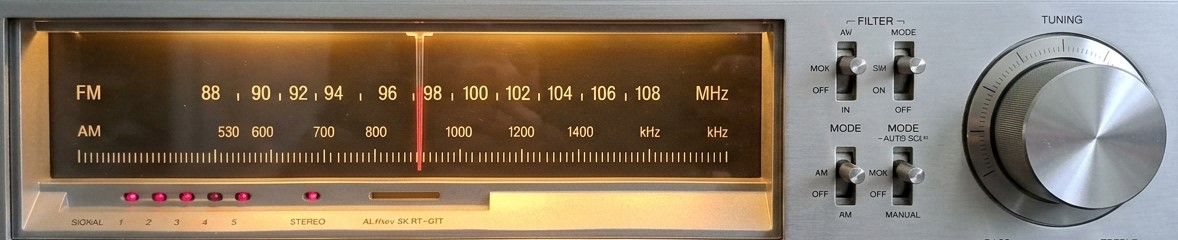
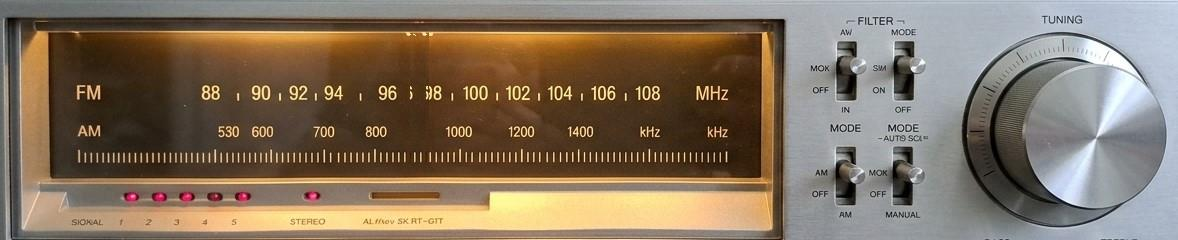
fix: strictly constrain radio tuning needle to glass FM scale and remove static needle artifact

Changed region(s): [[0.3362, 0.1167, 0.3667, 0.7]]

diff --git a/src/components/RadioTunerDial.tsx b/src/components/RadioTunerDial.tsx
@@ -15,29 +15,35 @@ export const RadioTunerDial: React.FC<RadioTunerDialProps> = ({
   hasResults,
   className = '',
 }) => {
-  // Needle position across dial (0% to 100%)
-  const [needlePos, setNeedlePos] = useState<number>(48);
-  const [isTuned, setIsTuned] = useState<boolean>(false);
-  const [currentFreq, setCurrentFreq] = useState<string>('98.5');
+  // Needle position in percentage of total tuner width (strictly constrained within glass scale: 18% to 57.5%)
+  const [needlePos, setNeedlePos] = useState<number>(37.5);
+  const [isTuned, setIsTuned] = useState<boolean>(true);
+  const [currentFreq, setCurrentFreq] = useState<string>('98.0');
   const [soundEnabled, setSoundEnabled] = useState<boolean>(true);
   const stopSoundRef = useRef<(() => void) | null>(null);
 
-  // Compute a deterministic frequency based on query string
+  // Exact geometric boundaries of the FM scale in SINTONIZADOR.jpg
+  const MIN_SCALE_X = 18.0; // Directly at "88 MHz"
+  const MAX_SCALE_X = 57.2; // Directly at "108 MHz"
+  const GLASS_MIN_X = 6.0;  // Left edge of dark glass
+  const GLASS_MAX_X = 64.0; // Right edge of dark glass (before silver switches panel)
+
+  // Compute station and needle position based on query string
   const calculateStation = (str: string) => {
     let hash = 0;
     for (let i = 0; i < str.length; i++) {
       hash = (hash << 5) - hash + str.charCodeAt(i);
       hash |= 0;
     }
-    const normalized = Math.abs(hash) % 1000;
-    // Map to FM range: 88.0 MHz to 108.0 MHz
-    const freqVal = (88.0 + (normalized / 1000) * 20).toFixed(1);
-    // Dial percentage between 10% and 90%
-    const pos = 10 + (normalized / 1000) * 80;
+    const ratio = (Math.abs(hash) % 1000) / 1000;
+    // Frequency between 88.0 and 108.0 MHz
+    const freqVal = (88.0 + ratio * 20.0).toFixed(1);
+    // Needle position strictly mapped onto the 88-108 MHz scale
+    const pos = MIN_SCALE_X + ratio * (MAX_SCALE_X - MIN_SCALE_X);
     return { freqVal, pos };
   };
 
-  // Trigger sweep and static sound during search
+  // Sweep and static sound during search
   useEffect(() => {
     if (isSearching) {
       setIsTuned(false);
@@ -46,17 +52,24 @@ export const RadioTunerDial: React.FC<RadioTunerDialProps> = ({
         stopSoundRef.current = playRadioTuningSound(1.2);
       }
 
-      // Sweep animation loop while searching
+      // Sweep animation loop strictly within the FM dial scale (18% to 57%)
       let direction = 1;
       let pos = needlePos;
       const interval = setInterval(() => {
-        pos += direction * 7;
-        if (pos > 86) direction = -1;
-        if (pos < 14) direction = 1;
+        pos += direction * 3.8;
+        if (pos > MAX_SCALE_X) {
+          pos = MAX_SCALE_X;
+          direction = -1;
+        }
+        if (pos < MIN_SCALE_X) {
+          pos = MIN_SCALE_X;
+          direction = 1;
+        }
         setNeedlePos(pos);
-        const dynamicFreq = (88.0 + (pos / 100) * 20).toFixed(1);
+        const ratio = (pos - MIN_SCALE_X) / (MAX_SCALE_X - MIN_SCALE_X);
+        const dynamicFreq = (88.0 + Math.max(0, Math.min(1, ratio)) * 20.0).toFixed(1);
         setCurrentFreq(dynamicFreq);
-      }, 70);
+      }, 65);
 
       return () => {
         clearInterval(interval);
@@ -66,7 +79,7 @@ export const RadioTunerDial: React.FC<RadioTunerDialProps> = ({
         }
       };
     } else if (hasResults && query.trim()) {
-      // Search finished: lock onto station!
+      // Search finished: lock onto station on the FM dial!
       const { freqVal, pos } = calculateStation(query.trim());
       setNeedlePos(pos);
       setCurrentFreq(freqVal);
@@ -76,15 +89,20 @@ export const RadioTunerDial: React.FC<RadioTunerDialProps> = ({
 
   const handleDialClick = (e: React.MouseEvent<HTMLDivElement>) => {
     const rect = e.currentTarget.getBoundingClientRect();
-    const clickX = e.clientX - rect.left;
-    const percent = Math.max(8, Math.min(92, (clickX / rect.width) * 100));
-    setNeedlePos(percent);
-    const manualFreq = (88.0 + (percent / 100) * 20).toFixed(1);
-    setCurrentFreq(manualFreq);
-    setIsTuned(true);
+    const clickXPercent = ((e.clientX - rect.left) / rect.width) * 100;
 
-    if (soundEnabled) {
-      playRadioTuningSound(0.5);
+    // Only respond if clicked inside the dark glass area (6% to 64%)
+    if (clickXPercent >= GLASS_MIN_X && clickXPercent <= GLASS_MAX_X) {
+      const clampedPos = Math.max(MIN_SCALE_X, Math.min(MAX_SCALE_X, clickXPercent));
+      setNeedlePos(clampedPos);
+      const ratio = (clampedPos - MIN_SCALE_X) / (MAX_SCALE_X - MIN_SCALE_X);
+      const manualFreq = (88.0 + ratio * 20.0).toFixed(1);
+      setCurrentFreq(manualFreq);
+      setIsTuned(true);
+
+      if (soundEnabled) {
+        playRadioTuningSound(0.4);
+      }
     }
   };
 
@@ -145,42 +163,46 @@ export const RadioTunerDial: React.FC<RadioTunerDialProps> = ({
       <div
         onClick={handleDialClick}
         className="w-full aspect-[4.9/1] max-h-24 sm:max-h-28 rounded-xl relative overflow-hidden border border-black/80 shadow-inner cursor-pointer group"
-        title="Haz clic en cualquier punto para sintonizar manualmente"
+        title="Haz clic en la escala FM para sintonizar manualmente"
       >
-        {/* Background Image: Authentic Vintage Radio Scale */}
+        {/* Background Image: Cleaned Vintage Radio Scale */}
         <img
           src="./assets/sintonizador.jpg"
           alt="Vintage Radio Tuner Scale"
           className="w-full h-full object-cover select-none pointer-events-none filter contrast-110 brightness-95"
         />
 
-        {/* Warm Vintage Incandescent Bulb Backlight Glow */}
-        <div className="absolute inset-0 bg-gradient-to-t from-amber-600/10 via-transparent to-amber-400/5 pointer-events-none" />
-
-        {/* Moving Red Analog Tuning Needle with Physical Bulb Indicator */}
+        {/* Warm Vintage Incandescent Bulb Backlight Glow across the glass */}
         <div
-          className="absolute top-0 bottom-0 pointer-events-none z-20 transition-all duration-150 ease-out flex flex-col items-center"
+          className="absolute top-[9%] bottom-[27%] left-[5.5%] w-[58.8%] bg-gradient-to-t from-amber-600/15 via-transparent to-amber-400/10 pointer-events-none"
+        />
+
+        {/* Moving Red Analog Tuning Needle: Strictly bounded to the glass FM dial */}
+        <div
+          className="absolute pointer-events-none z-20 transition-all duration-150 ease-out flex flex-col items-center"
           style={{
+            top: '8.5%',
+            bottom: '26%',
             left: `${needlePos}%`,
             transform: 'translateX(-50%)',
           }}
         >
-          {/* Top Red LED Indicator Bulb */}
-          <div className="w-2 sm:w-2.5 h-2 sm:h-2.5 rounded-full bg-rose-600 border border-white shadow-[0_0_10px_#f43f5e] -mt-0.5" />
+          {/* Top Red Bead Indicator */}
+          <div className="w-2 sm:w-2.5 h-2 sm:h-2.5 rounded-full bg-[#ff2a3b] border border-white/90 shadow-[0_0_8px_#ff2a3b] -mt-0.5" />
           
-          {/* Vertical Fine Red Needle */}
-          <div className="w-[2px] sm:w-[2.5px] h-full bg-gradient-to-b from-rose-500 via-rose-600 to-rose-700 shadow-[0_0_6px_rgba(244,63,94,0.9)]" />
+          {/* Slender Red Physical Needle */}
+          <div className="w-[2px] sm:w-[2.5px] h-full bg-[#ff2a3b] shadow-[0_0_6px_rgba(255,42,59,0.95)]" />
           
-          {/* Bottom Needle Weight */}
-          <div className="w-1.5 h-1.5 rounded-full bg-zinc-950 border border-rose-500/80 -mb-0.5" />
+          {/* Bottom Needle Tip */}
+          <div className="w-1.5 h-1.5 rounded-full bg-[#991b1b] border border-[#ff2a3b] -mb-0.5" />
         </div>
 
         {/* Acrylic Glass Highlight Reflection Glare */}
         <div className="absolute inset-0 bg-gradient-to-b from-white/20 via-transparent to-black/35 pointer-events-none z-30" />
 
-        {/* Hover Hint */}
-        <div className="absolute bottom-1 right-2 opacity-0 group-hover:opacity-100 transition-opacity text-[8px] font-mono-retro text-amber-200/70 bg-black/60 px-1 rounded pointer-events-none z-40">
-          DIAL CLICK TUNING
+        {/* Glass region hint on hover */}
+        <div className="absolute bottom-1 left-3 opacity-0 group-hover:opacity-100 transition-opacity text-[8px] font-mono-retro text-amber-300/80 bg-black/70 px-1.5 py-0.5 rounded pointer-events-none z-40">
+          ESCALA FM 88-108 MHz
         </div>
       </div>
     </div>
